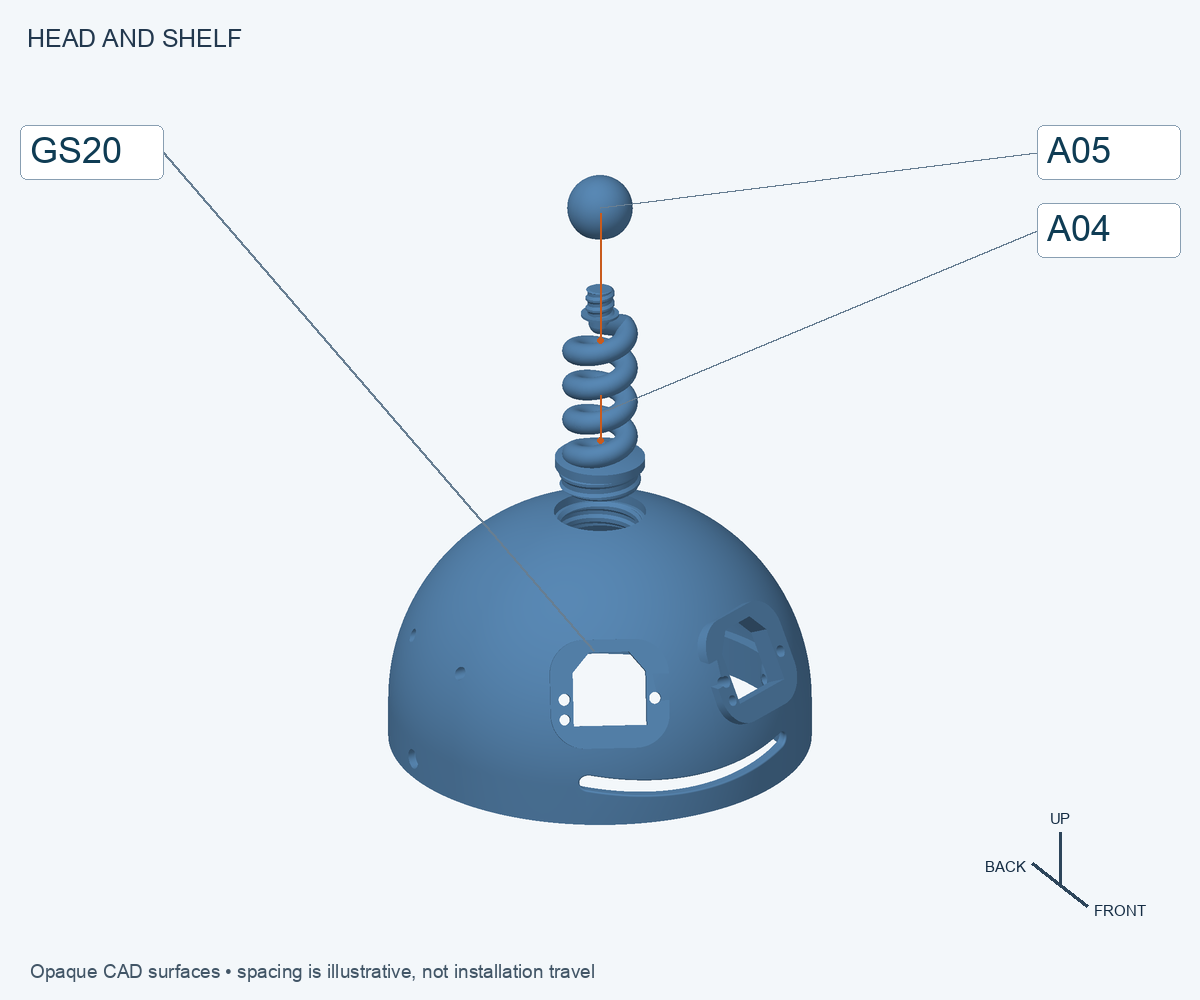
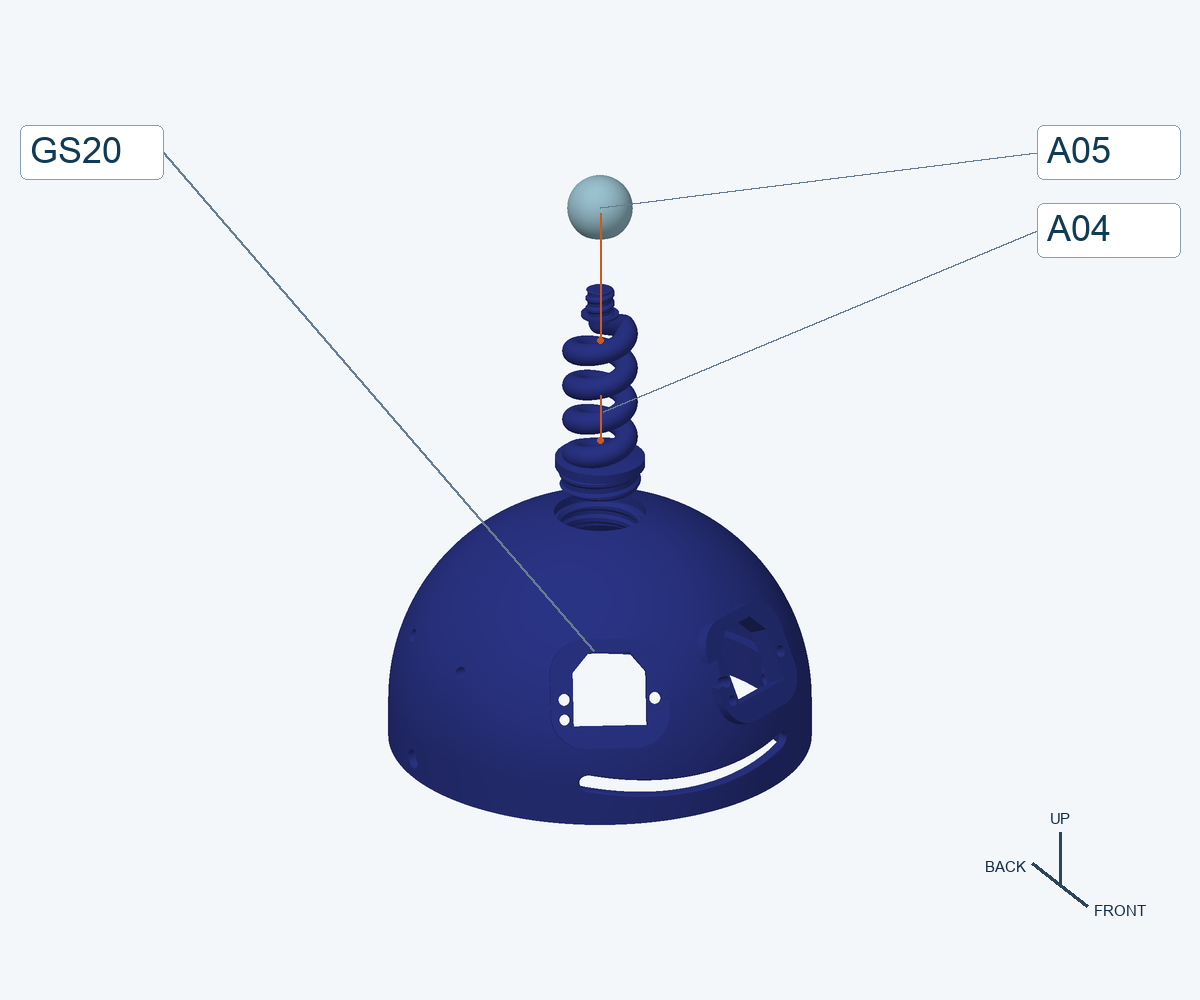
Render the antenna and bottom-cover pictures without drawn titles or keys
The antenna picture was a static file from an older revision with a drawn
title and a footer about CAD surfaces, and the bottom-cover picture carried
a drawn sentence explaining its screw markers. Guide pictures carry labels
only, so the renderer now leaves the marker sentence out of guide pictures
and regenerates the antenna view from its scene, in the robot's colors.

Claude-Session: https://claude.ai/code/session_01EnNd7MYFHgpRwVJFToUq7s

diff --git a/hardware/tools/guide/render_models.py b/hardware/tools/guide/render_models.py
@@ -33,7 +33,7 @@ def scenes():
         path = scene['output']; view = scene['view']; selected = view.get('select', ['all'])
         if path in ('assets/r18/head-fastener-cutaway.png','assets/r16/service-stand.png') or not (SRC / path).exists():
             continue
-        if any((part in selected or 'all' in selected) and part not in view.get('exclude', []) for part in ('P08', 'P14', 'P35', 'P36', 'FB32', 'FB01', 'FB24', 'FB41', 'E01', 'E06', 'E07', 'E08', 'E09', 'E14', 'E16', 'E17', 'E18')) or view.get('hardware') or path == 'assets/r16/base-cover-joints.png':
+        if any((part in selected or 'all' in selected) and part not in view.get('exclude', []) for part in ('P08', 'P14', 'P35', 'P36', 'FB32', 'FB01', 'FB24', 'FB41', 'E01', 'E06', 'E07', 'E08', 'E09', 'E14', 'E16', 'E17', 'E18')) or view.get('hardware') or path in ('assets/r16/base-cover-joints.png','assets/r18/step-11.png'):
             result[path] = copy.deepcopy(scene)
     community = {
         'vent-locations': dict(select=['FB01','FB03','FB41'],camera=[.7,.8,-1.6],title='Front and rear vents'),

diff --git a/hardware/tools/rendering/render.py b/hardware/tools/rendering/render.py
@@ -137,7 +137,8 @@ def render(name,view,thumb=False):
    draw.text((h[0]-6,h[1]-12),str(mark['n']),font=font(20),fill=(103,51,11))
   if view.get('markers'):
    draw.rectangle((20,57,W-25,107),fill=(243,247,250))
-   draw.text((30,62),'Numbered circle = screw entry/head; square = nut. Installed positions; hidden joints shown.',font=font(20),fill=(109,62,25))
+   if not view.get('guide'):
+    draw.text((30,62),'Numbered circle = screw entry/head; square = nut. Installed positions; hidden joints shown.',font=font(20),fill=(109,62,25))
    for i,t in enumerate(view['legend']):draw.text((30,H-128+i*27),t,font=font(20),fill=(109,62,25))
   # Side rails keep identification outside geometry and avoid overlapping labels.
   labs=[]
